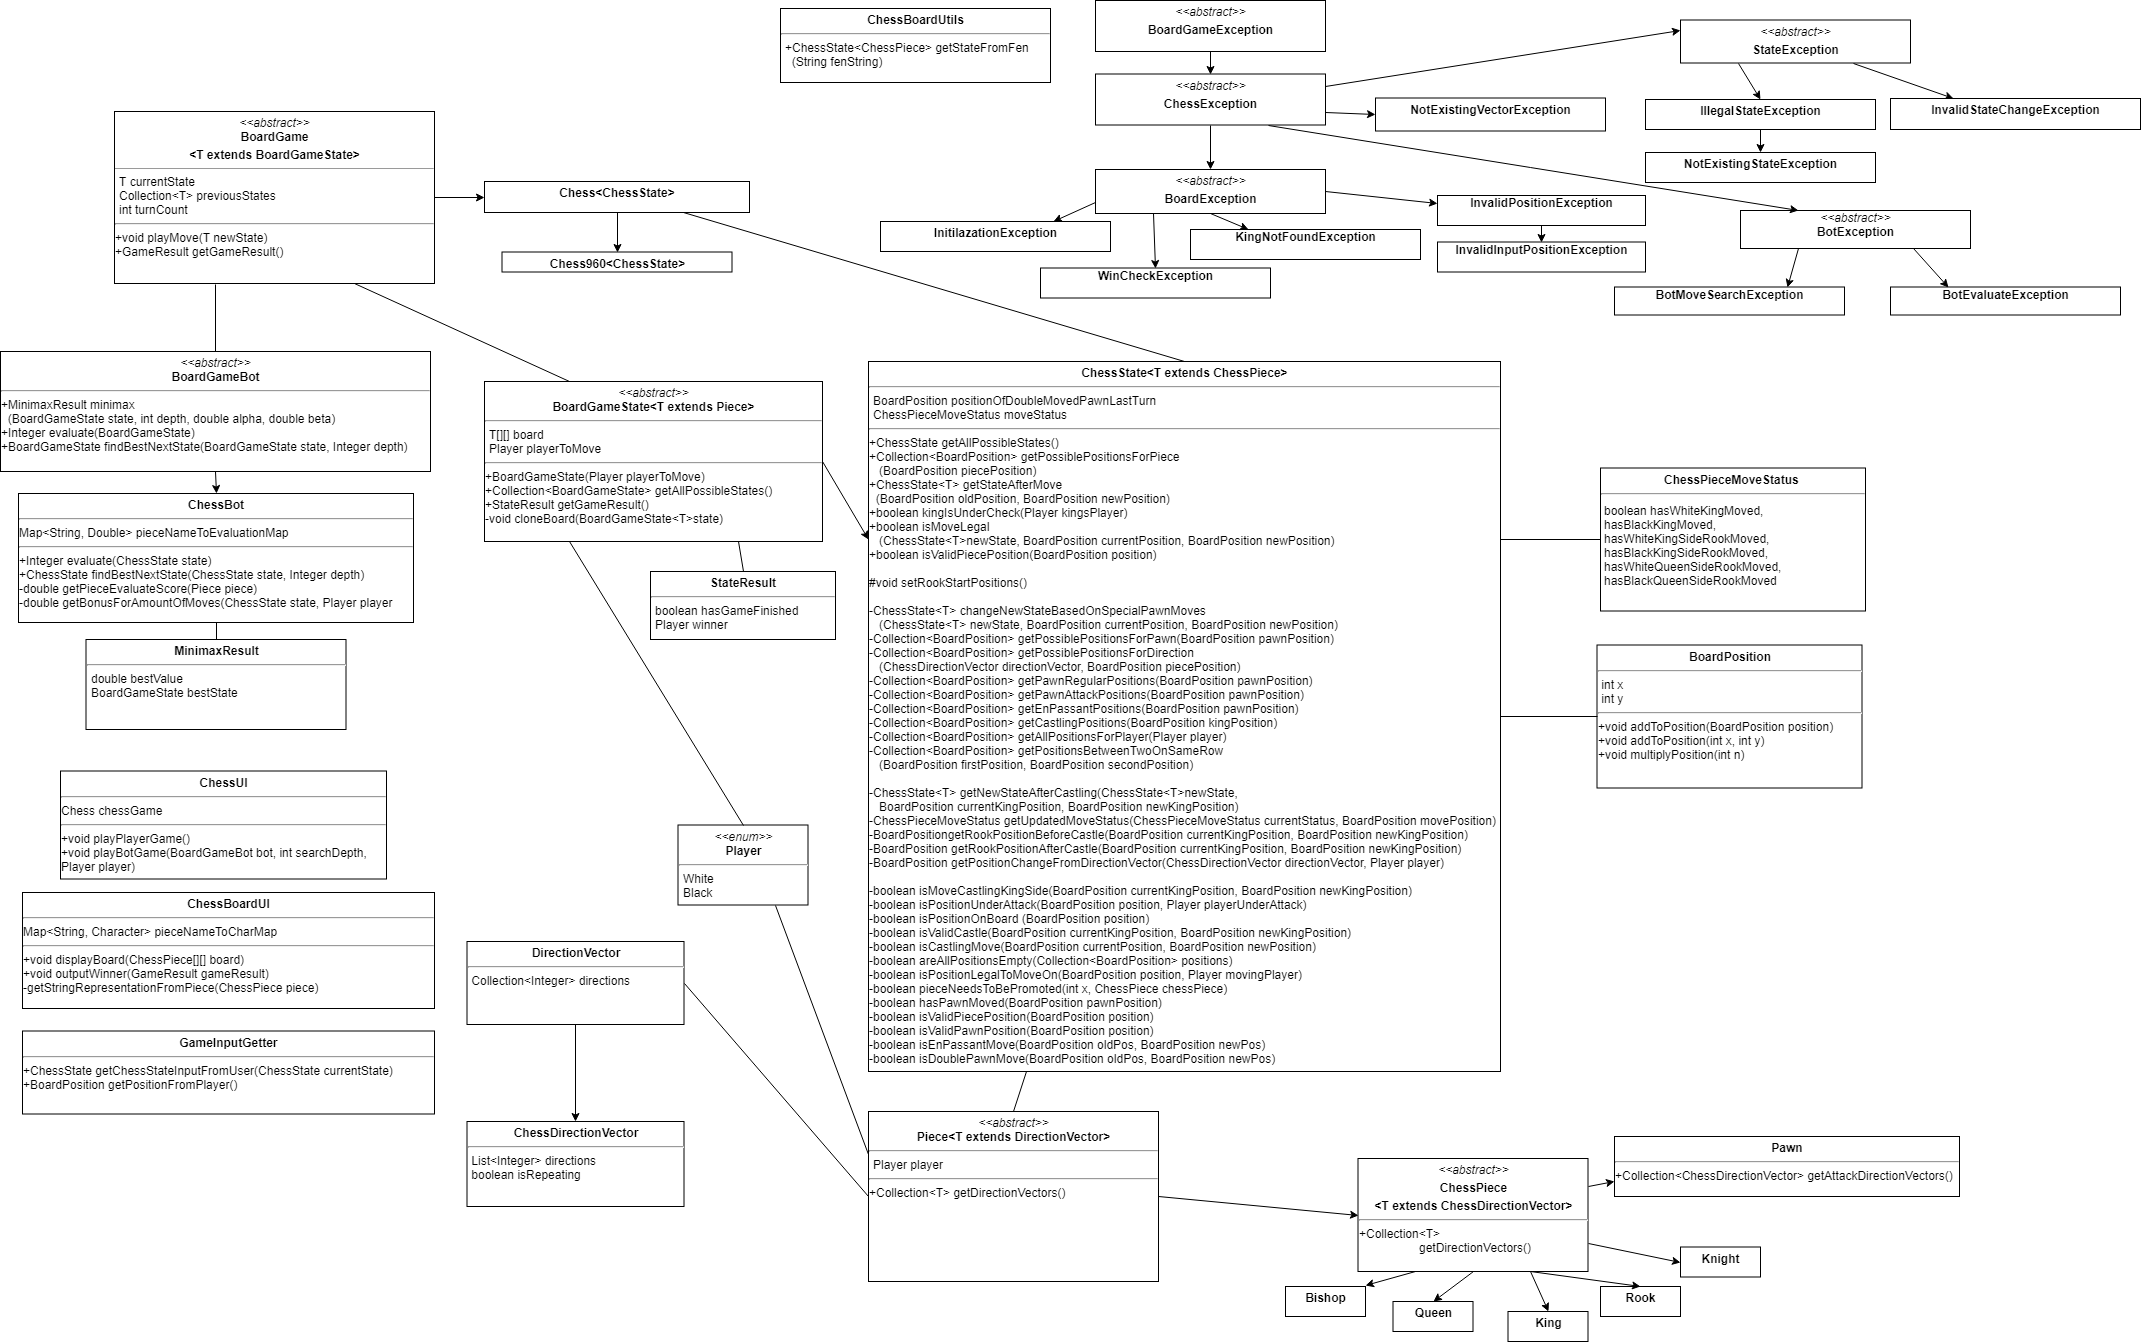
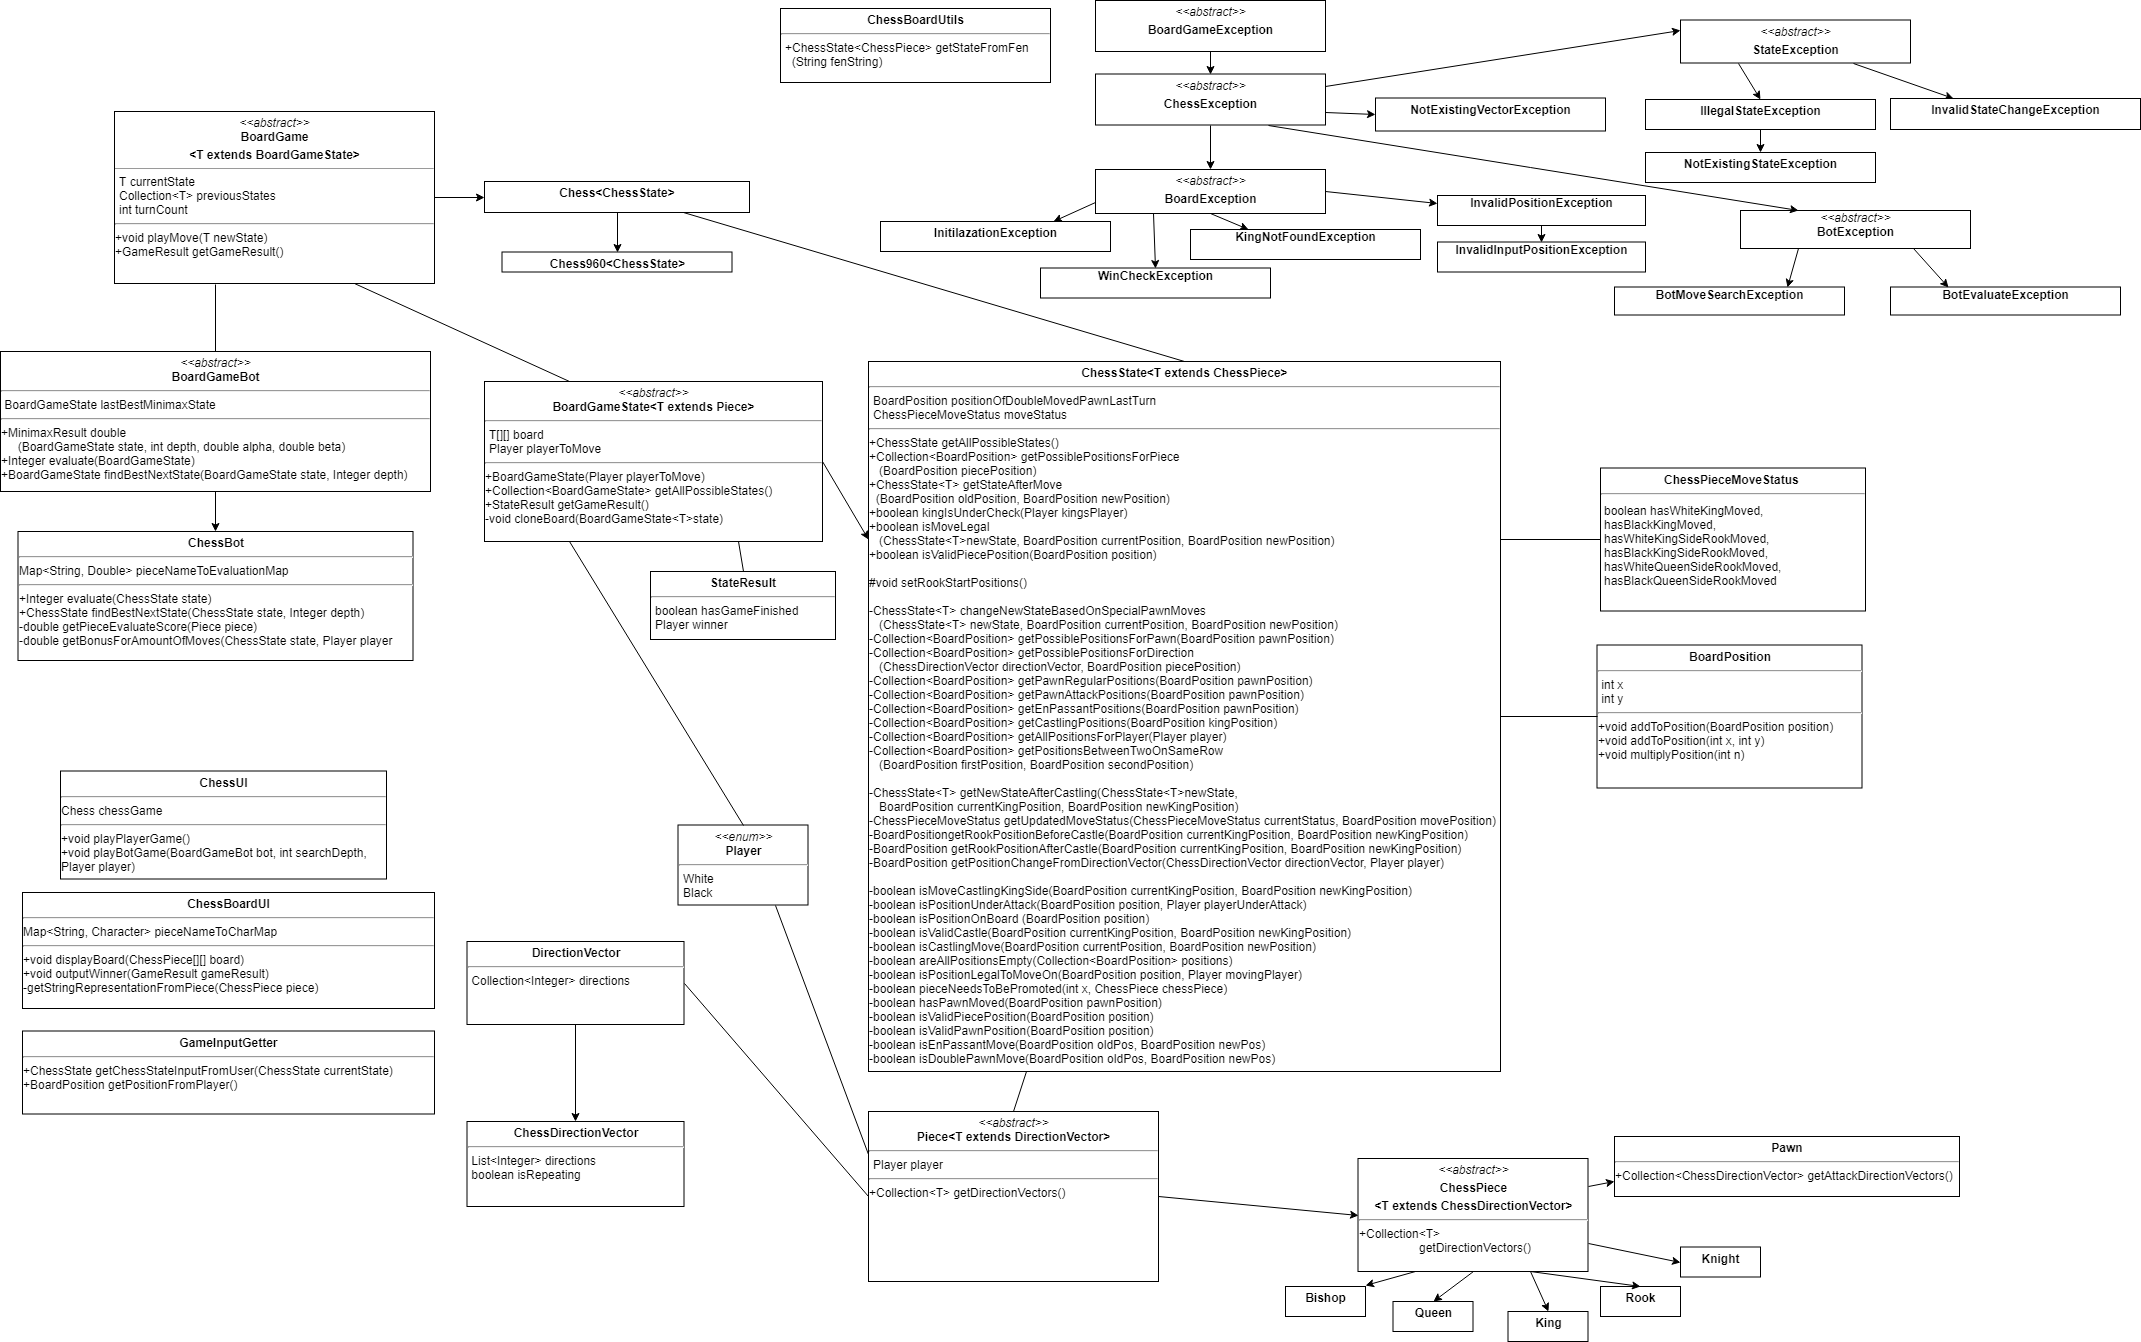
Removed minimaxResult, added new way to get the last best state

Changed region(s): [[0.0, 0.275, 0.185, 0.5194]]

diff --git a/src/main/java/bots/BoardGameBot.java b/src/main/java/bots/BoardGameBot.java
@@ -6,7 +6,7 @@ import exceptions.botExceptions.BotEvaluateException;
 import exceptions.botExceptions.BotMoveSearchException;
 import gameStates.BoardGameState;
 import pieces.Piece;
-
+import java.util.Collection;
 import java.util.List;
 
 /**
@@ -14,6 +14,8 @@ import java.util.List;
  */
 public abstract class BoardGameBot
 {
+    private static BoardGameState lastBestMinimaxState;
+
     /*
         Gives an evaluation, a numerical score, to a state
         The evaluation is positive for one player, negative for another
@@ -29,9 +31,9 @@ public abstract class BoardGameBot
         Minimax algorithm used to find the best next state
         Uses alpha-beta pruning optimization
      */
-    public MinimaxResult minimax(BoardGameState state, int depth, double alpha, double beta) throws BoardGameException
+    public double minimax(BoardGameState state, int depth, double alpha, double beta) throws BoardGameException
     {
-        List<BoardGameState> allPossibleStates = (List<BoardGameState>)state.getAllPossibleStates();
+        Collection<BoardGameState> allPossibleStates = state.getAllPossibleStates();
 
         if(depth == 0)
         {
@@ -40,24 +42,23 @@ public abstract class BoardGameBot
             {
                 evaluateValue *= -1;
             }
-            return new MinimaxResult(evaluateValue, null);
+            return evaluateValue;
         }
 
-        double bestValue = Double.NEGATIVE_INFINITY;
+        double bestStateValue = Double.NEGATIVE_INFINITY;
         BoardGameState bestState = null;
         for(BoardGameState nextState : allPossibleStates)
         {
-            MinimaxResult result = minimax(nextState, depth - 1, -1 * beta, -1 * alpha);
-            double value = -1 * result.getBestValue();
-            if(value > bestValue)
+            double currentStateValue = -1 * minimax(nextState, depth - 1, -1 * beta, -1 * alpha);
+            if(currentStateValue > bestStateValue)
             {
-                bestValue = value;
+                bestStateValue = currentStateValue;
                 bestState = nextState;
             }
 
-            if(value > alpha)
+            if(currentStateValue > alpha)
             {
-                alpha = value;
+                alpha = currentStateValue;
             }
             if(alpha >= beta)
             {
@@ -65,6 +66,17 @@ public abstract class BoardGameBot
             }
         }
 
-        return new MinimaxResult(bestValue, bestState);
+        setLastBestMinimaxState(bestState);
+        return bestStateValue;
+    }
+
+    public static BoardGameState getLastBestMinimaxState()
+    {
+        return lastBestMinimaxState;
+    }
+
+    public static void setLastBestMinimaxState(BoardGameState lastBestMinimaxState)
+    {
+        BoardGameBot.lastBestMinimaxState = lastBestMinimaxState;
     }
 }

diff --git a/src/main/java/bots/ChessBot.java b/src/main/java/bots/ChessBot.java
@@ -9,7 +9,6 @@ import gameStates.BoardGameState;
 import gameStates.ChessState;
 import pieces.Piece;
 import pieces.chessPieces.*;
-
 import java.util.HashMap;
 import java.util.Map;
 
@@ -82,17 +81,17 @@ public class ChessBot extends BoardGameBot
     @Override
     public BoardGameState findBestNextState(BoardGameState state, int depth) throws BotMoveSearchException
     {
-        MinimaxResult minimaxResult;
         try
         {
-            minimaxResult = super.minimax(state, depth, Double.NEGATIVE_INFINITY, Double.POSITIVE_INFINITY);
+            super.minimax(state, depth, Double.NEGATIVE_INFINITY, Double.POSITIVE_INFINITY);
         }
         catch (BoardGameException exception)
         {
             exception.printStackTrace();
             throw new BotMoveSearchException("Failed to evaluate the position");
         }
-        return minimaxResult.getBestState();
+
+        return getLastBestMinimaxState();
     }
 
     /*
